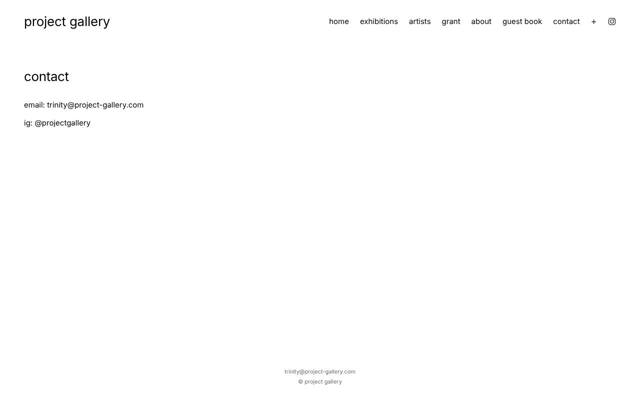
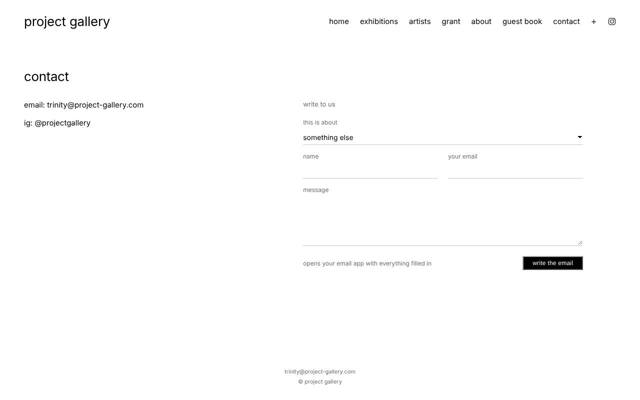
Shuffled salon wall that follows the tags; quieter static counters; about page leadership with hover pictures and a secret; contact form that flags artwork inquiries; fresh page previews
Claude-Session: https://claude.ai/code/session_01JDvyBS7JT6BmRY19jA3qLE

diff --git a/index.html b/index.html
@@ -285,7 +285,7 @@ body.arriving #view-show { animation: arrive 1.4s cubic-bezier(.16, .8, .3, 1) b
 .arch-item:hover .a-title { color: var(--accent); }
 /* artist archive */
 .counters { display: flex; flex-wrap: wrap; gap: 28px clamp(36px, 5vw, 72px); margin: 8px 0 40px; }
-.counter b { display: block; font-weight: 400; font-size: clamp(34px, 4.4vw, 56px); letter-spacing: -0.03em; line-height: 1; font-variant-numeric: tabular-nums; }
+.counter b { display: block; font-weight: 400; font-size: clamp(24px, 2.9vw, 37px); letter-spacing: -0.02em; line-height: 1; font-variant-numeric: tabular-nums; }
 .counter span { display: block; margin-top: 8px; font-size: 12px; color: var(--muted); }
 .year-jump { display: flex; flex-wrap: wrap; align-items: baseline; gap: 8px 12px; margin: 0 0 28px; }
 .year-jump .dot { font-size: 7px; color: var(--ink); }
@@ -331,7 +331,7 @@ body.arriving #view-show { animation: arrive 1.4s cubic-bezier(.16, .8, .3, 1) b
 .nl-skip:hover { color: var(--accent); }
 
 /* salon wall: saved works hung together at their real relative sizes */
-.salon { display: flex; flex-wrap: wrap; align-items: center; justify-content: center; gap: 22px 26px; min-height: 0; padding: 30px 0 36px; margin-bottom: 30px; border-bottom: 1px solid #dedede; }
+.salon { display: flex; flex-wrap: wrap; align-items: center; justify-content: center; gap: 22px 26px; min-height: 0; padding: 56px 0 64px; margin-bottom: 36px; border-bottom: 1px solid #dedede; }
 .salon:empty { display: none; }
 .salon img { display: block; box-shadow: 0 2px 10px rgba(0, 0, 0, 0.12); cursor: zoom-in; }
 .salon-scale { flex-basis: 100%; text-align: center; font-size: 11px; color: var(--muted); margin-top: 4px; }
@@ -355,6 +355,32 @@ body.arriving #view-show { animation: arrive 1.4s cubic-bezier(.16, .8, .3, 1) b
 .award-shelf figure { margin: 0; cursor: help; }
 .award-shelf svg { width: 28px; height: 28px; margin: 0; }
 
+/* about: leadership */
+.sub-head { font-size: 13px; font-weight: 400; color: var(--muted); margin: 56px 0 14px; padding: 0; border: 0; }
+.people { display: grid; gap: 22px; max-width: 560px; }
+.person p { margin: 0; text-align: justify; font-size: 14px; }
+.person .who { font-size: 16px; display: inline-block; cursor: default; }
+.person .who:hover { color: var(--accent); }
+.person .links { margin-top: 4px; font-size: 12px; display: flex; gap: 14px; }
+.person .links a { text-decoration: underline; text-underline-offset: 3px; }
+.person .links a:hover { color: var(--accent); }
+.secret-note { position: fixed; left: 50%; bottom: 28px; transform: translateX(-50%); background: var(--ink); color: var(--bg); font-size: 12px; padding: 8px 14px; z-index: 70; opacity: 0; transition: opacity .3s; pointer-events: none; }
+.secret-note.on { opacity: 1; }
+
+/* contact form */
+.contact-grid { display: grid; grid-template-columns: 1fr 1.3fr; gap: clamp(32px, 6vw, 96px); align-items: start; }
+.cf { display: grid; gap: 14px; max-width: 560px; }
+.cf label { display: grid; gap: 6px; font-size: 12px; color: var(--muted); }
+.cf input, .cf select, .cf textarea { font-family: var(--font); font-size: 14px; color: var(--ink); border: 0; border-bottom: 1px solid #c9c9c9; padding: 6px 0; background: transparent; border-radius: 0; }
+.cf select { appearance: none; -webkit-appearance: none; cursor: pointer; background: linear-gradient(45deg, transparent 50%, var(--ink) 50%) right 6px center / 5px 5px no-repeat, linear-gradient(-45deg, transparent 50%, var(--ink) 50%) right 1px center / 5px 5px no-repeat; }
+.cf input:focus, .cf select:focus, .cf textarea:focus { outline: none; border-bottom-color: var(--ink); }
+.cf textarea { resize: vertical; }
+.cf .two { display: grid; grid-template-columns: 1fr 1fr; gap: 14px 20px; }
+.cf .work-found { font-size: 12px; color: var(--accent); min-height: 1em; margin: -6px 0 0; }
+.cf-actions { display: flex; justify-content: space-between; align-items: center; gap: 16px; margin-top: 6px; }
+.cf-msg { font-size: 12px; color: var(--muted); margin: 0; }
+.cf-head { font-size: 13px; color: var(--muted); margin: 0 0 4px; }
+
 /* footer */
 footer { padding: 56px var(--gutter) 28px; text-align: center; display: flex; flex-direction: column; gap: 4px; font-size: 11px; color: var(--muted); }
 footer a:hover { color: var(--accent); }
@@ -375,6 +401,7 @@ footer a:hover { color: var(--accent); }
   .work.center { width: 100%; }
   .work.left .work-image, .work.right .work-image, .pair .work-image { width: 100%; }
   .gb-form, .gb-fields { grid-template-columns: 1fr; }
+  .contact-grid, .cf .two { grid-template-columns: 1fr; }
   .gb-top { flex-direction: column; align-items: flex-start; }
   .ex-feature, .card.wide { grid-template-columns: 1fr; }
   .bubbles.r, .bubbles.l { left: 8px; right: auto; bottom: 8px; padding: 0; flex-direction: row; }
@@ -481,9 +508,11 @@ footer a:hover { color: var(--accent); }
   <section class="view" id="view-about">
     <h1 class="page-title">about</h1>
     <div class="prose">
-      <p>project gallery is an online gallery established in 2020.</p>
+      <p>project gallery is an online gallery that was established in october 2020.</p>
       <p>pg hosts curated exhibitions organized by Trinity Lester. pg is based in new york city but functions primarily online, with select infrequent in-person exhibitions in brooklyn, ny.</p>
     </div>
+    <h2 class="sub-head">leadership</h2>
+    <div class="people" id="people"></div>
   </section>
 
   <!-- GUEST BOOK -->
@@ -516,8 +545,8 @@ footer a:hover { color: var(--accent); }
   <!-- MY COLLECTION (saved in each visitor's own browser) -->
   <section class="view" id="view-collection">
     <div class="coll-head"><h1 class="page-title">my collection</h1><div class="award-shelf" id="award-shelf" aria-label="your awards"></div></div>
-    <div class="salon" id="salon" aria-label="your saved works, shown at their real relative sizes"></div>
     <div class="tags" id="collection-tags"></div>
+    <div class="salon" id="salon" aria-label="your saved works, shown at their real relative sizes"></div>
     <p class="construction collection-note">kept in this browser, on this device</p>
     <div class="collection" id="collection"></div>
   </section>
@@ -525,9 +554,37 @@ footer a:hover { color: var(--accent); }
   <!-- CONTACT -->
   <section class="view" id="view-contact">
     <h1 class="page-title">contact</h1>
-    <div class="prose">
-      <p>email: <a href="mailto:trinity@project-gallery.com">trinity@project-gallery.com</a></p>
-      <p>ig: <a href="https://www.instagram.com/projectgallery/" target="_blank" rel="noopener">@projectgallery</a></p>
+    <div class="contact-grid">
+      <div class="prose">
+        <p>email: <a href="mailto:trinity@project-gallery.com">trinity@project-gallery.com</a></p>
+        <p>ig: <a href="https://www.instagram.com/projectgallery/" target="_blank" rel="noopener">@projectgallery</a></p>
+      </div>
+      <form class="cf" id="cf" novalidate>
+        <p class="cf-head">write to us</p>
+        <label for="cf-type">this is about
+          <select id="cf-type">
+            <option value="artwork">inquiring about an artwork</option>
+            <option value="show">a question about a show</option>
+            <option value="artist">i'm an artist</option>
+            <option value="curator">i'm a curator</option>
+            <option value="grant">the artist grant</option>
+            <option value="other" selected>something else</option>
+          </select>
+        </label>
+        <div id="cf-work-wrap" hidden>
+          <label for="cf-work">which work
+            <input id="cf-work" list="cf-works" placeholder="start typing a title or artist" autocomplete="off">
+          </label>
+          <datalist id="cf-works"></datalist>
+          <p class="work-found" id="cf-work-found"></p>
+        </div>
+        <div class="two">
+          <label for="cf-name">name<input id="cf-name" autocomplete="name"></label>
+          <label for="cf-email">your email<input id="cf-email" type="email" autocomplete="email"></label>
+        </div>
+        <label for="cf-msg">message<textarea id="cf-text" rows="5"></textarea></label>
+        <div class="cf-actions"><p class="cf-msg" id="cf-msg">opens your email app with everything filled in</p><button class="enter" type="submit">write the email</button></div>
+      </form>
     </div>
   </section>
 </main>
@@ -579,6 +636,8 @@ footer a:hover { color: var(--accent); }
     <div class="award-row"><a class="award-link" href="#collection">see my collection</a><button class="enter" id="award-close">thank you</button></div>
   </div>
 </div>
+
+<div class="secret-note" id="secret-note" role="status">every award is now in your collection</div>
 
 <div class="nav-preview" id="nav-preview" aria-hidden="true"><img alt=""></div>
 
@@ -802,10 +861,10 @@ function renderArtists() {
   Object.values(SHOW_CARDS).forEach(c => { const m = /^(?:curated|juried) by (.+)$/.exec(c.note || ""); if (m) m[1].split(/ and |, /).forEach(n => curators.add(n.trim())); });
   const since = new Date(2020, 9, 1), now = new Date();
   const years = now.getFullYear() - since.getFullYear() - (now.getMonth() < since.getMonth() ? 1 : 0);
-  const C = [[people.size, "artists"], [order.length, "exhibitions"], [curators.size, "curators"], [STATS.artworks, "artworks shown"], [years, "years, since october 2020"]];
+  const C = [[people.size, "artists shown"], [order.length, "exhibitions"], [curators.size, "curators"], [STATS.artworks, "artworks shown"], [years, "years online, since october 2020"]];
   const box = document.getElementById("aa-counters");
   box.innerHTML = C.map(([n, l]) => `<div class="counter"><b>${n}</b><span>${esc(l)}</span></div>`).join("");
-  if (!countersDone) { box.querySelectorAll("b").forEach((b, i) => countUp(b, C[i][0], 1400)); countersDone = true; }
+
 
   // year links
   const yrs = [...byYear.keys()];
@@ -993,6 +1052,7 @@ function renderAwardShelf() {
 }
 // read "23.6 x 19.7 in" as height and width in inches
 function inches(size) { const m = /([\d.]+)\s*x\s*([\d.]+)(?:\s*x\s*[\d.]+)?\s*in/i.exec(size || ""); return m ? [parseFloat(m[1]), parseFloat(m[2])] : null; }
+function shuffled(a) { const b = [...a]; for (let i = b.length - 1; i > 0; i--) { const j = Math.floor(Math.random() * (i + 1)); [b[i], b[j]] = [b[j], b[i]]; } return b; }
 function renderSalon(works) {
   const box = document.getElementById("salon");
   const sized = works.map(w => ({ w, d: inches(w.size) })).filter(x => x.d);
@@ -1005,7 +1065,7 @@ function renderSalon(works) {
 }
 function renderCollection() {
   renderAwardShelf();
-  renderSalon(getSaved().map(workInfo));
+
   const box = document.getElementById("collection");
   const tagsEl = document.getElementById("collection-tags");
   const all = getSaved().map(workInfo);
@@ -1032,6 +1092,7 @@ function renderCollection() {
 
   const f = collectionFilter;
   const list = all.filter(w => f === "all" || w.type + "s" === f || w.year === f || w.status === f || (f === "for sale" && w.forSale));
+  renderSalon(f === "all" ? shuffled(list) : list);
   box.innerHTML = list.map(w => `<div class="c-item">
       <img src="${esc(w.image)}" alt="${esc(w.artist + ", " + w.title)}" data-open="${esc(w.id)}">
       <p>${esc(w.artist)}</p>
@@ -1453,6 +1514,70 @@ document.getElementById("ex-archive").addEventListener("mouseover", e => {
   im.addEventListener("mouseleave", () => { pv.classList.remove("on"); setTimeout(() => pv.classList.remove("small"), 200); }, { once: true });
 });
 
+/* about: leadership (names show a picture on hover) */
+function renderPeople() {
+  const box = document.getElementById("people");
+  box.innerHTML = (LEADERSHIP || []).map((p, i) => `<div class="person">
+      <span class="who" data-i="${i}">${esc(p.name)}</span>
+      <p>${esc(p.bio)}</p>
+      <div class="links">${(p.links || []).filter(l => l.url).map(l => `<a href="${esc(l.url)}" target="_blank" rel="noopener">${esc(l.text)}</a>`).join("")}</div>
+    </div>`).join("");
+  const pv = document.getElementById("nav-preview"), pvImg = pv.querySelector("img");
+  box.querySelectorAll(".who").forEach(w => {
+    const p = LEADERSHIP[w.dataset.i];
+    w.addEventListener("mouseenter", () => {
+      if (!p.image) return;
+      pvImg.src = p.image; const r = w.getBoundingClientRect();
+      const col = box.getBoundingClientRect();                 // beside the text, never on top of it
+      pv.style.top = Math.max(16, r.top - 10) + "px"; pv.style.left = Math.min(window.innerWidth - 276, col.right + 32) + "px";
+      pv.classList.add("on");
+    });
+    w.addEventListener("mouseleave", () => pv.classList.remove("on"));
+  });
+  // a secret: click "Trinity Lester" three times quickly to collect every award in this browser
+  const me = [...box.querySelectorAll(".who")].find(w => /trinity/i.test(w.textContent));
+  if (me) {
+    let clicks = [];
+    me.addEventListener("click", () => {
+      const now = Date.now(); clicks = clicks.filter(t => now - t < 1500); clicks.push(now);
+      if (clicks.length >= 3) {
+        clicks = [];
+        const got = getAwards(); Object.keys(AWARD_LIST).forEach(id => { if (!got[id]) got[id] = now; });
+        try { localStorage.setItem(AWARDS, JSON.stringify(got)); } catch (e) {}
+        const n = document.getElementById("secret-note"); n.classList.add("on"); setTimeout(() => n.classList.remove("on"), 2600);
+      }
+    });
+  }
+}
+
+/* contact form: writes an email to the gallery in the visitor's own email app */
+(() => {
+  const type = document.getElementById("cf-type"), wrap = document.getElementById("cf-work-wrap");
+  const workIn = document.getElementById("cf-work"), found = document.getElementById("cf-work-found");
+  const all = Object.entries(SHOWS).flatMap(([k, sh]) => sh.works.map(w => ({ ...w, artist: sh.artist, show: sh.title, key: k })));
+  document.getElementById("cf-works").innerHTML = all.map(w => `<option value="${esc(w.title + " — " + w.artist)}"></option>`).join("");
+  const match = () => all.find(w => (w.title + " — " + w.artist).toLowerCase() === workIn.value.trim().toLowerCase())
+    || all.find(w => w.title.toLowerCase() === workIn.value.trim().toLowerCase());
+  type.addEventListener("change", () => { wrap.hidden = type.value !== "artwork"; });
+  workIn.addEventListener("input", () => { const w = match(); found.textContent = w ? `${w.artist}, ${w.title}${w.year && w.year !== "year" ? ", " + w.year : ""} · ${w.show}` : ""; });
+  document.getElementById("cf").addEventListener("submit", e => {
+    e.preventDefault();
+    const name = document.getElementById("cf-name").value.trim(), email = document.getElementById("cf-email").value.trim();
+    const text = document.getElementById("cf-text").value.trim(), msg = document.getElementById("cf-msg");
+    if (!name || !text) { msg.textContent = "please add your name and a message"; return; }
+    const labels = { artwork: "artwork inquiry", show: "question about a show", artist: "artist", curator: "curator", grant: "artist grant", other: "message" };
+    let subject = `[${labels[type.value]}] from ${name}`, extra = "";
+    if (type.value === "artwork") {
+      const w = match();
+      subject = `[IMPORTANT · artwork inquiry] ${w ? w.title + " by " + w.artist : workIn.value.trim() || "an artwork"}`;
+      if (w) extra = `\n\nwork: ${w.title}${w.year && w.year !== "year" ? ", " + w.year : ""}\nartist: ${w.artist}\nshow: ${w.show}\nmedium: ${w.medium}\nsize: ${w.size}\npage: ${location.origin}${location.pathname}#${w.key}`;
+    }
+    const body = `${text}${extra}\n\n— ${name}${email ? "\n" + email : ""}`;
+    location.href = `mailto:${SITE.email}?subject=${encodeURIComponent(subject)}&body=${encodeURIComponent(body)}`;
+    msg.textContent = "your email app should open with the message ready to send";
+  });
+})();
+
 /* routing */
 const VIEWS = ["home", "exhibitions", "artists", "grant", "about", "guestbook", "contact", "collection"];
 const header = document.getElementById("top");
@@ -1484,7 +1609,7 @@ window.addEventListener("hashchange", show);
 
 document.getElementById("home-cloud").hidden = HOME_STYLE !== "cloud";
 document.getElementById("home-featured").hidden = HOME_STYLE === "cloud";
-renderSite(); renderCurrent(); renderExhibitionsPage(); renderArtists(); renderGrant(); buildCloud(); show();
+renderPeople(); renderSite(); renderCurrent(); renderExhibitionsPage(); renderArtists(); renderGrant(); buildCloud(); show();
 if (getSaved().length) setTimeout(() => giveAward("collector"), 1200);   // for people who saved works before this award existed
 </script>
 </body>

diff --git a/content.js b/content.js
@@ -815,6 +815,28 @@ const NEWSLETTER = {
   formAction: ""
 };
 
+// LEADERSHIP on the about page. "image" shows when someone hovers the name.
+const LEADERSHIP = [
+  {
+    name: "Trinity Lester",
+    bio: "Trinity Lester is the director of project gallery and an artist and curator in new york city.",
+    image: "images/archive/archive-08.jpg",
+    links: [
+      { text: "instagram", url: "https://www.instagram.com/triiinity.lester/" },
+      { text: "art", url: "https://trinitylester.com" }
+    ]
+  },
+  {
+    name: "Cary Hulbert",
+    bio: "Cary Hulbert was a co-founder of project gallery until 2024. she is an artist in new york city.",
+    image: "images/archive/archive-07.jpg",
+    links: [
+      { text: "instagram", url: "https://www.instagram.com/cary_hulbert/" },
+      { text: "art", url: "" }
+    ]
+  }
+];
+
 // THE GRANT PAGE
 // tallyFormId: the letters at the end of your Tally share link
 //   (tally.so/r/wA8bQz  ->  "wA8bQz"). Leave "" to show "under construction".
